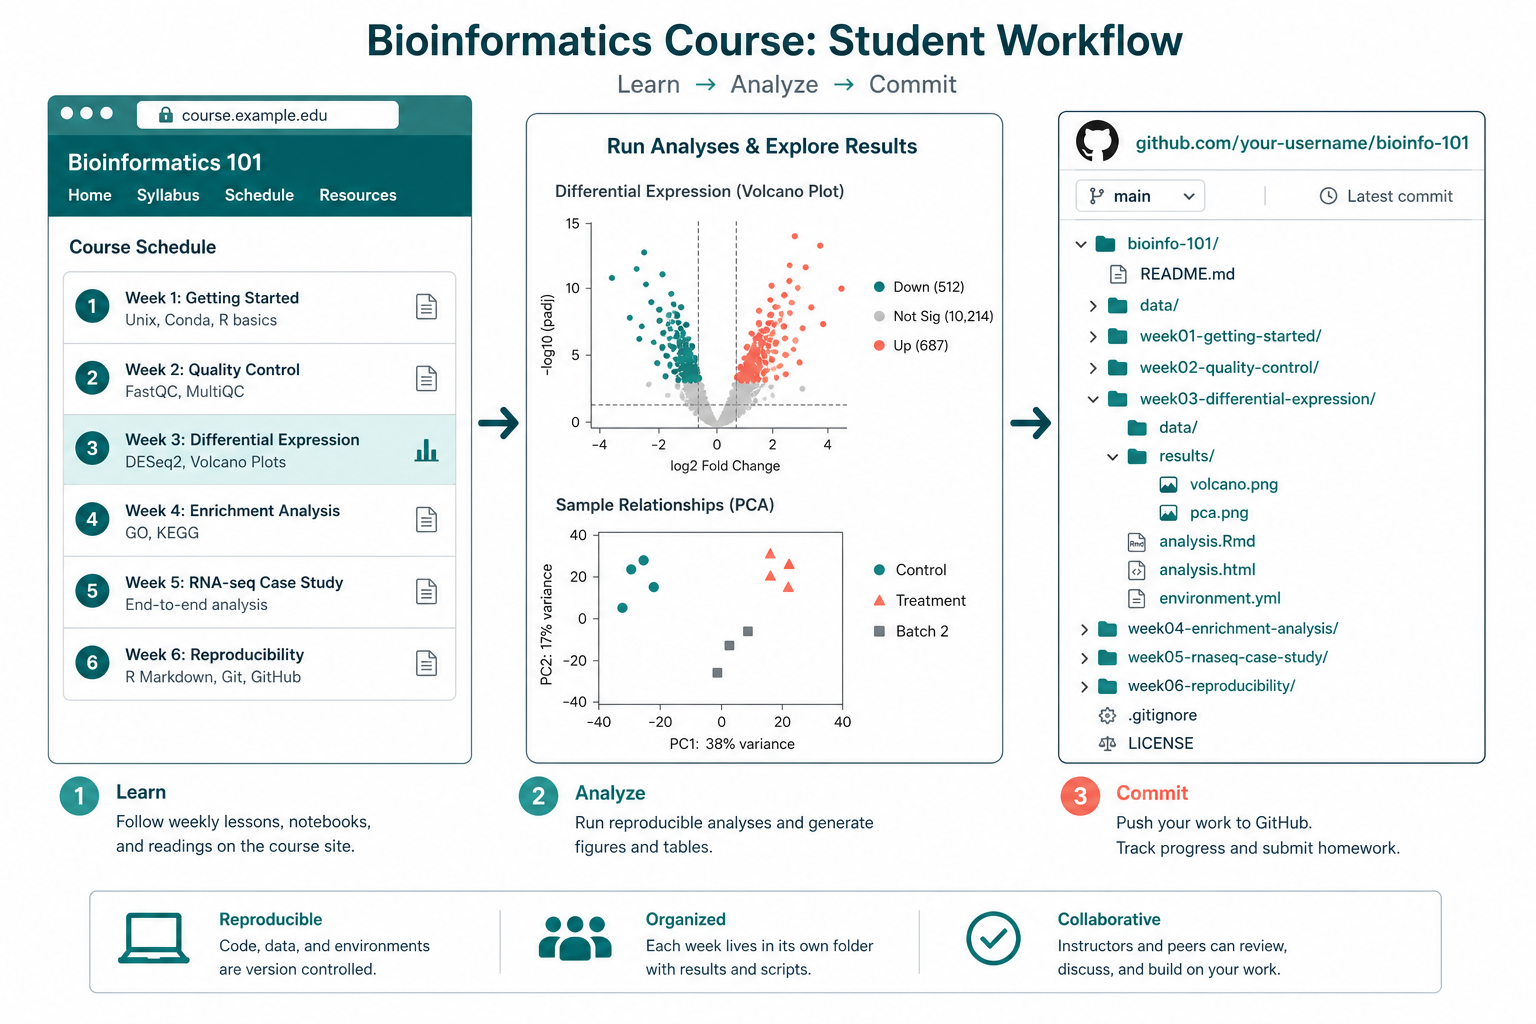
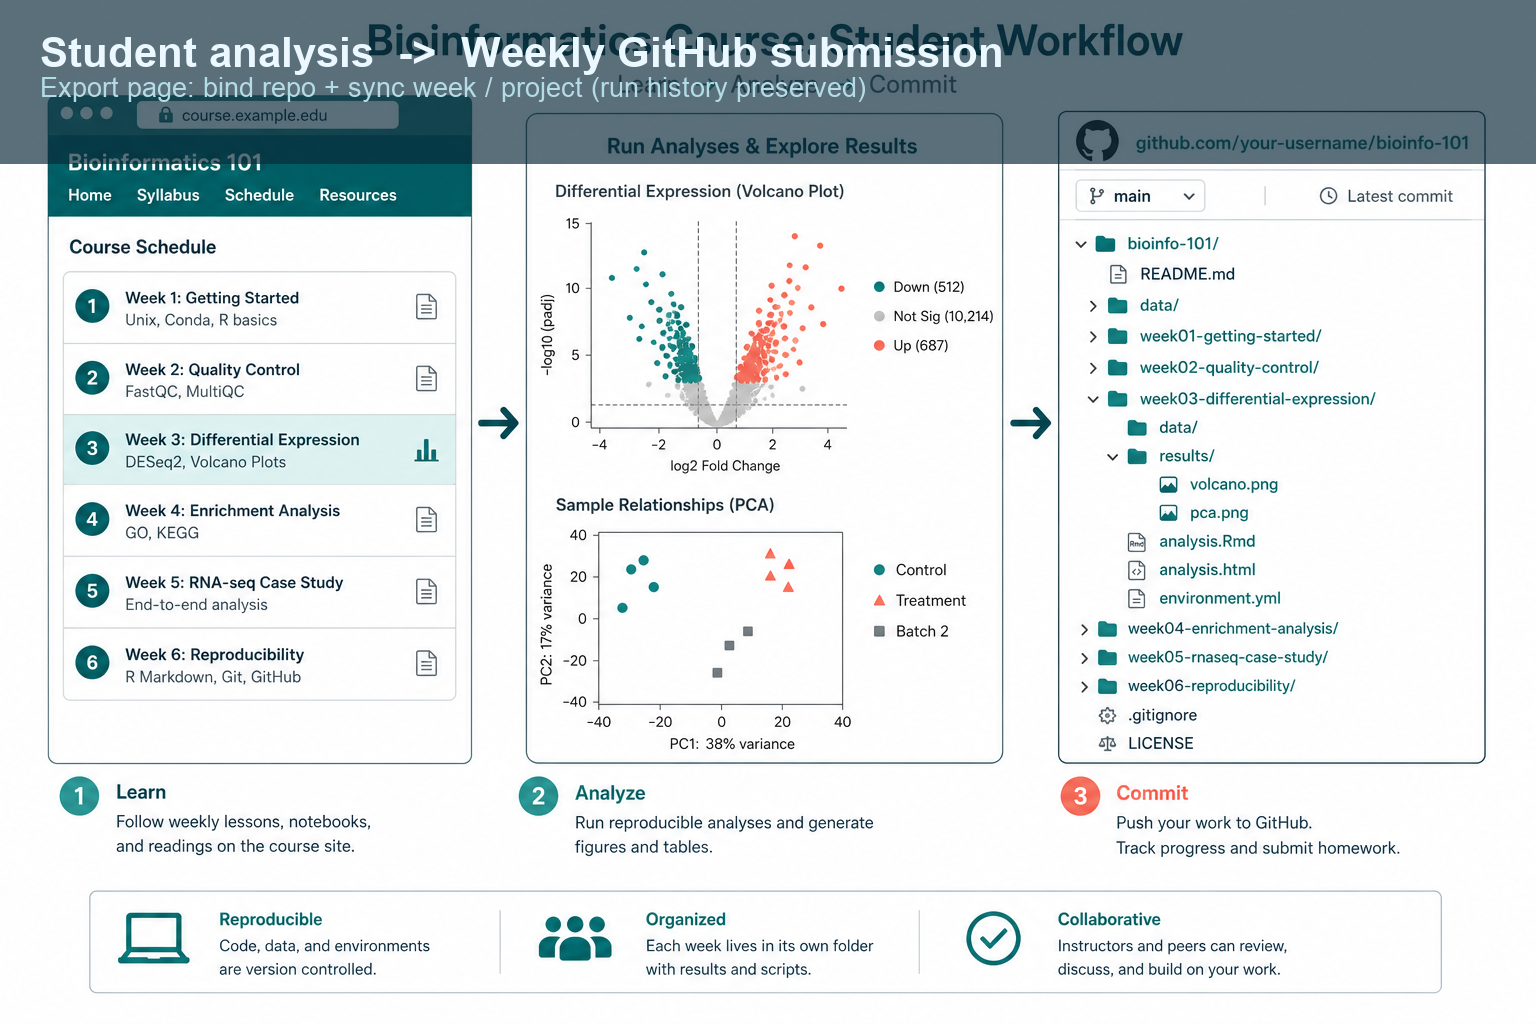
fix(docs): repair V8 Education README images and captions.
Rewrite the corrupted architecture SVG, publish a PNG for reliable GitHub rendering, and bake title text into the Education banner and sync feature images.

Changed region(s): [[0.0, 0.0, 1.0, 0.1875]]

diff --git a/README.md b/README.md
@@ -32,7 +32,9 @@ EasyMultiProfiler Web 是浏览器版多组学下游分析平台（Plumber R API
 
 ## 架构一览
 
-![V8 Education architecture](docs/TECHNICAL_MODE_V8_EDUCATION.svg)
+![V8 Education architecture](docs/images/emp-web-v8-architecture.png)
+
+> 矢量源文件：[docs/TECHNICAL_MODE_V8_EDUCATION.svg](docs/TECHNICAL_MODE_V8_EDUCATION.svg)（与上图同内容）
 
 | 层 | 能力 |
 |----|------|
